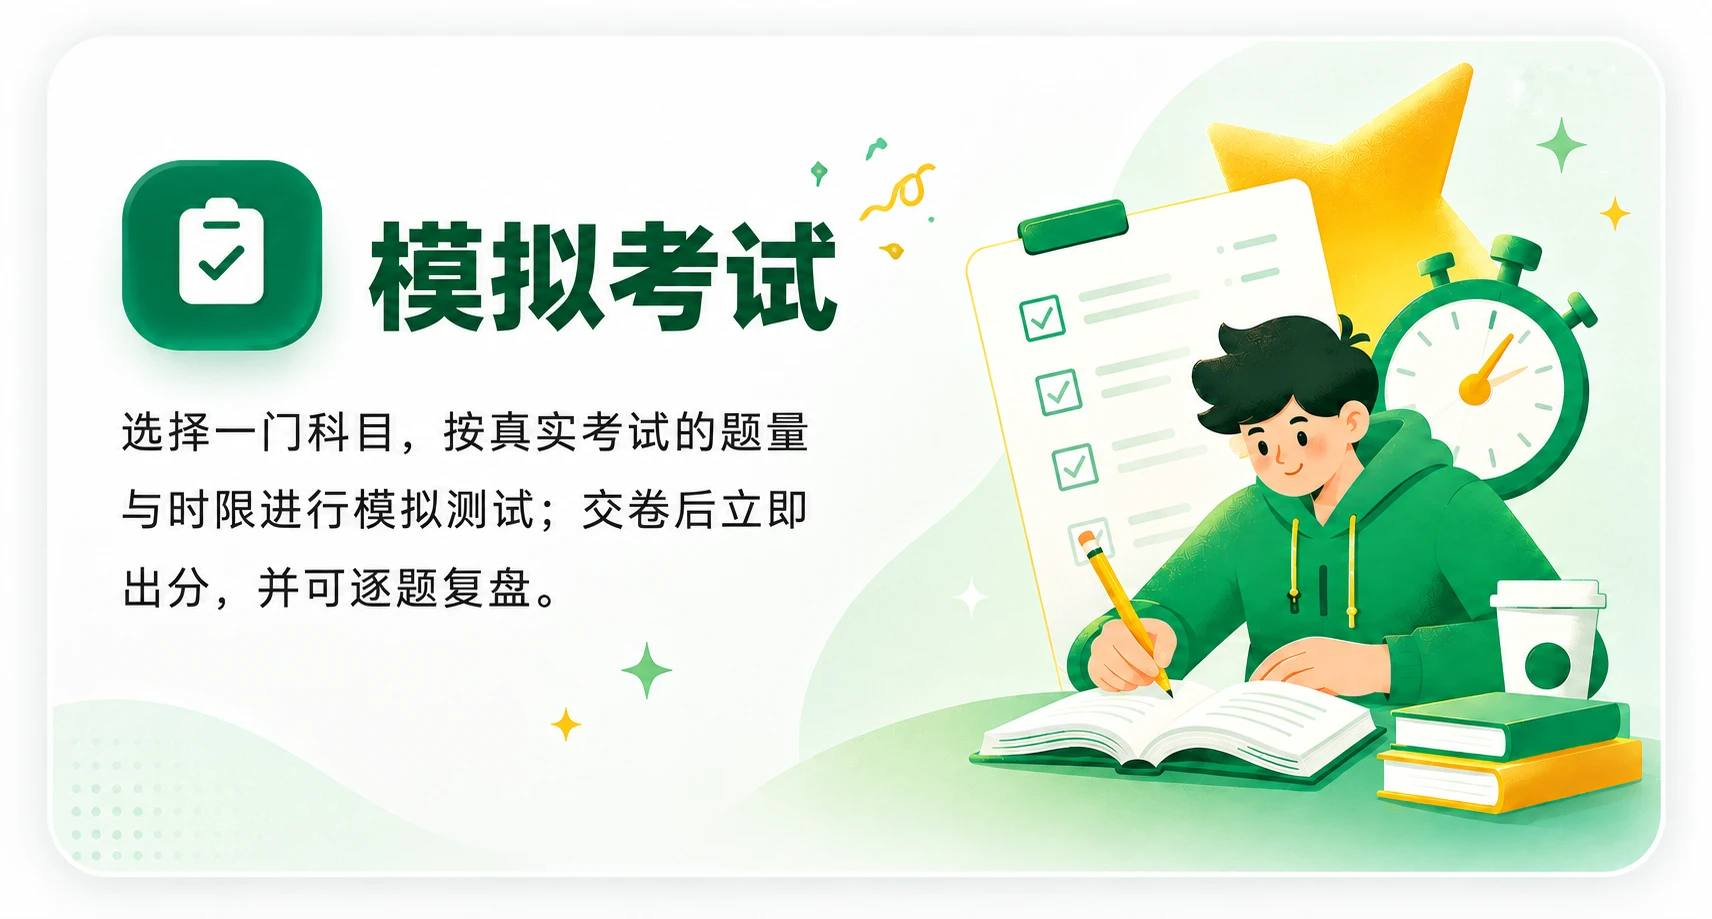
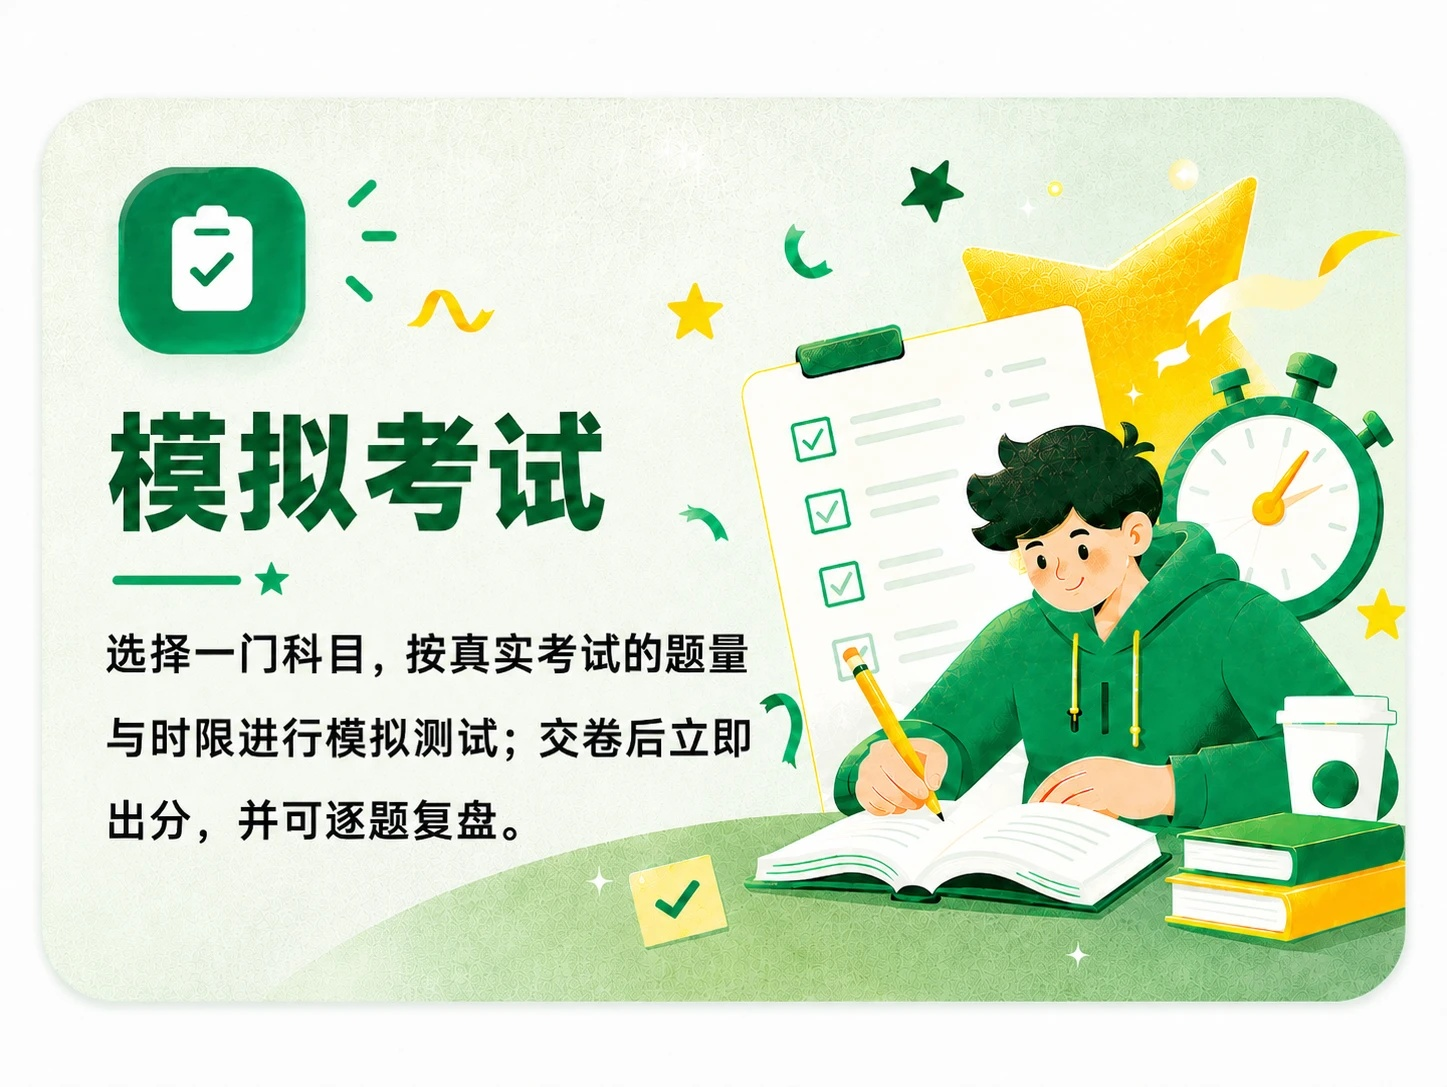
模拟考试横幅换成原图，不再裁剪四周留白
之前为控制体积把 exam-list-banner.jpg 裁掉了图片四周的留白圆角卡片，
只保留中间内容区域。用户要求换成原图（1447x1087，保留四周留白）。
完全无损的 PNG 版本会到 1.5MB，exam 页面在主包里，主包 2MB 上限下
风险较大，跟用户确认后改用高质量 JPEG（quality=95）落地，肉眼基本
无损，体积控制在几百 KB。

Claude-Session: https://claude.ai/code/session_01WC9RHK68sDkevpmxQWTmMJ

diff --git a/开发记录与项目说明.md b/开发记录与项目说明.md
@@ -408,6 +408,25 @@ profile.js` 这次漏掉了，压根没算过 `menuGap`。
 不受影响，只是整行右边留白）。以后如果哪个页面顶部/右上角有可点的东西
 挂在自定义头部行上，照这个模式补一下 `menuGap` 就行。
 
+### 功能补充："模拟考试"横幅图改成原图，不裁剪
+
+之前为了控制体积，`images/exam-list-banner.jpg` 是裁掉图片四周留白、
+只保留中间绿色卡片区域、再压缩过的版本（1712×919，约 108KB）。用户
+要求换成原图，四周留白圆角卡片都保留、不裁剪（1447×1087）。
+
+不裁剪之后如果再要求"完全不压缩"（无损 PNG）体积会到 1.5MB——`pages/
+exam/exam` 在主包里（不在 `subpackages` 里），微信小程序主包大小上限
+2MB，`images/` 目录原本一共才 200KB 左右，加一张 1.5MB 的图风险很大，
+容易主包超限传不上去（这个项目之前专门做过一轮迁移解决过主包/分包
+超限问题，参考"开发过程中踩过的坑"里题库搬到 Supabase 那一条，不想
+在图片上又踩回去）。跟用户确认后选择"高质量 JPEG"（quality=95，肉眼
+基本无损，`images/` 目录整体还是几百 KB 量级，不会顶到主包上限）。
+`exam.wxml` 里 `<image class="hero-banner" mode="widthFix">` 不用改，
+`mode="widthFix"` 本来就是整张图等比缩放显示、不会裁剪，只是外层
+`.hero-banner` 的 `border-radius: 48rpx`（`styles/list.wxss`）会在四个
+角上产生一点点二次圆角效果（原图卡片本身四角已经是圆角+白色留白，
+所以实际看不太出来）。
+
 ### 原始设计资料在哪
 
 `handoff/` 文件夹里是最初的交接资料，包括：
